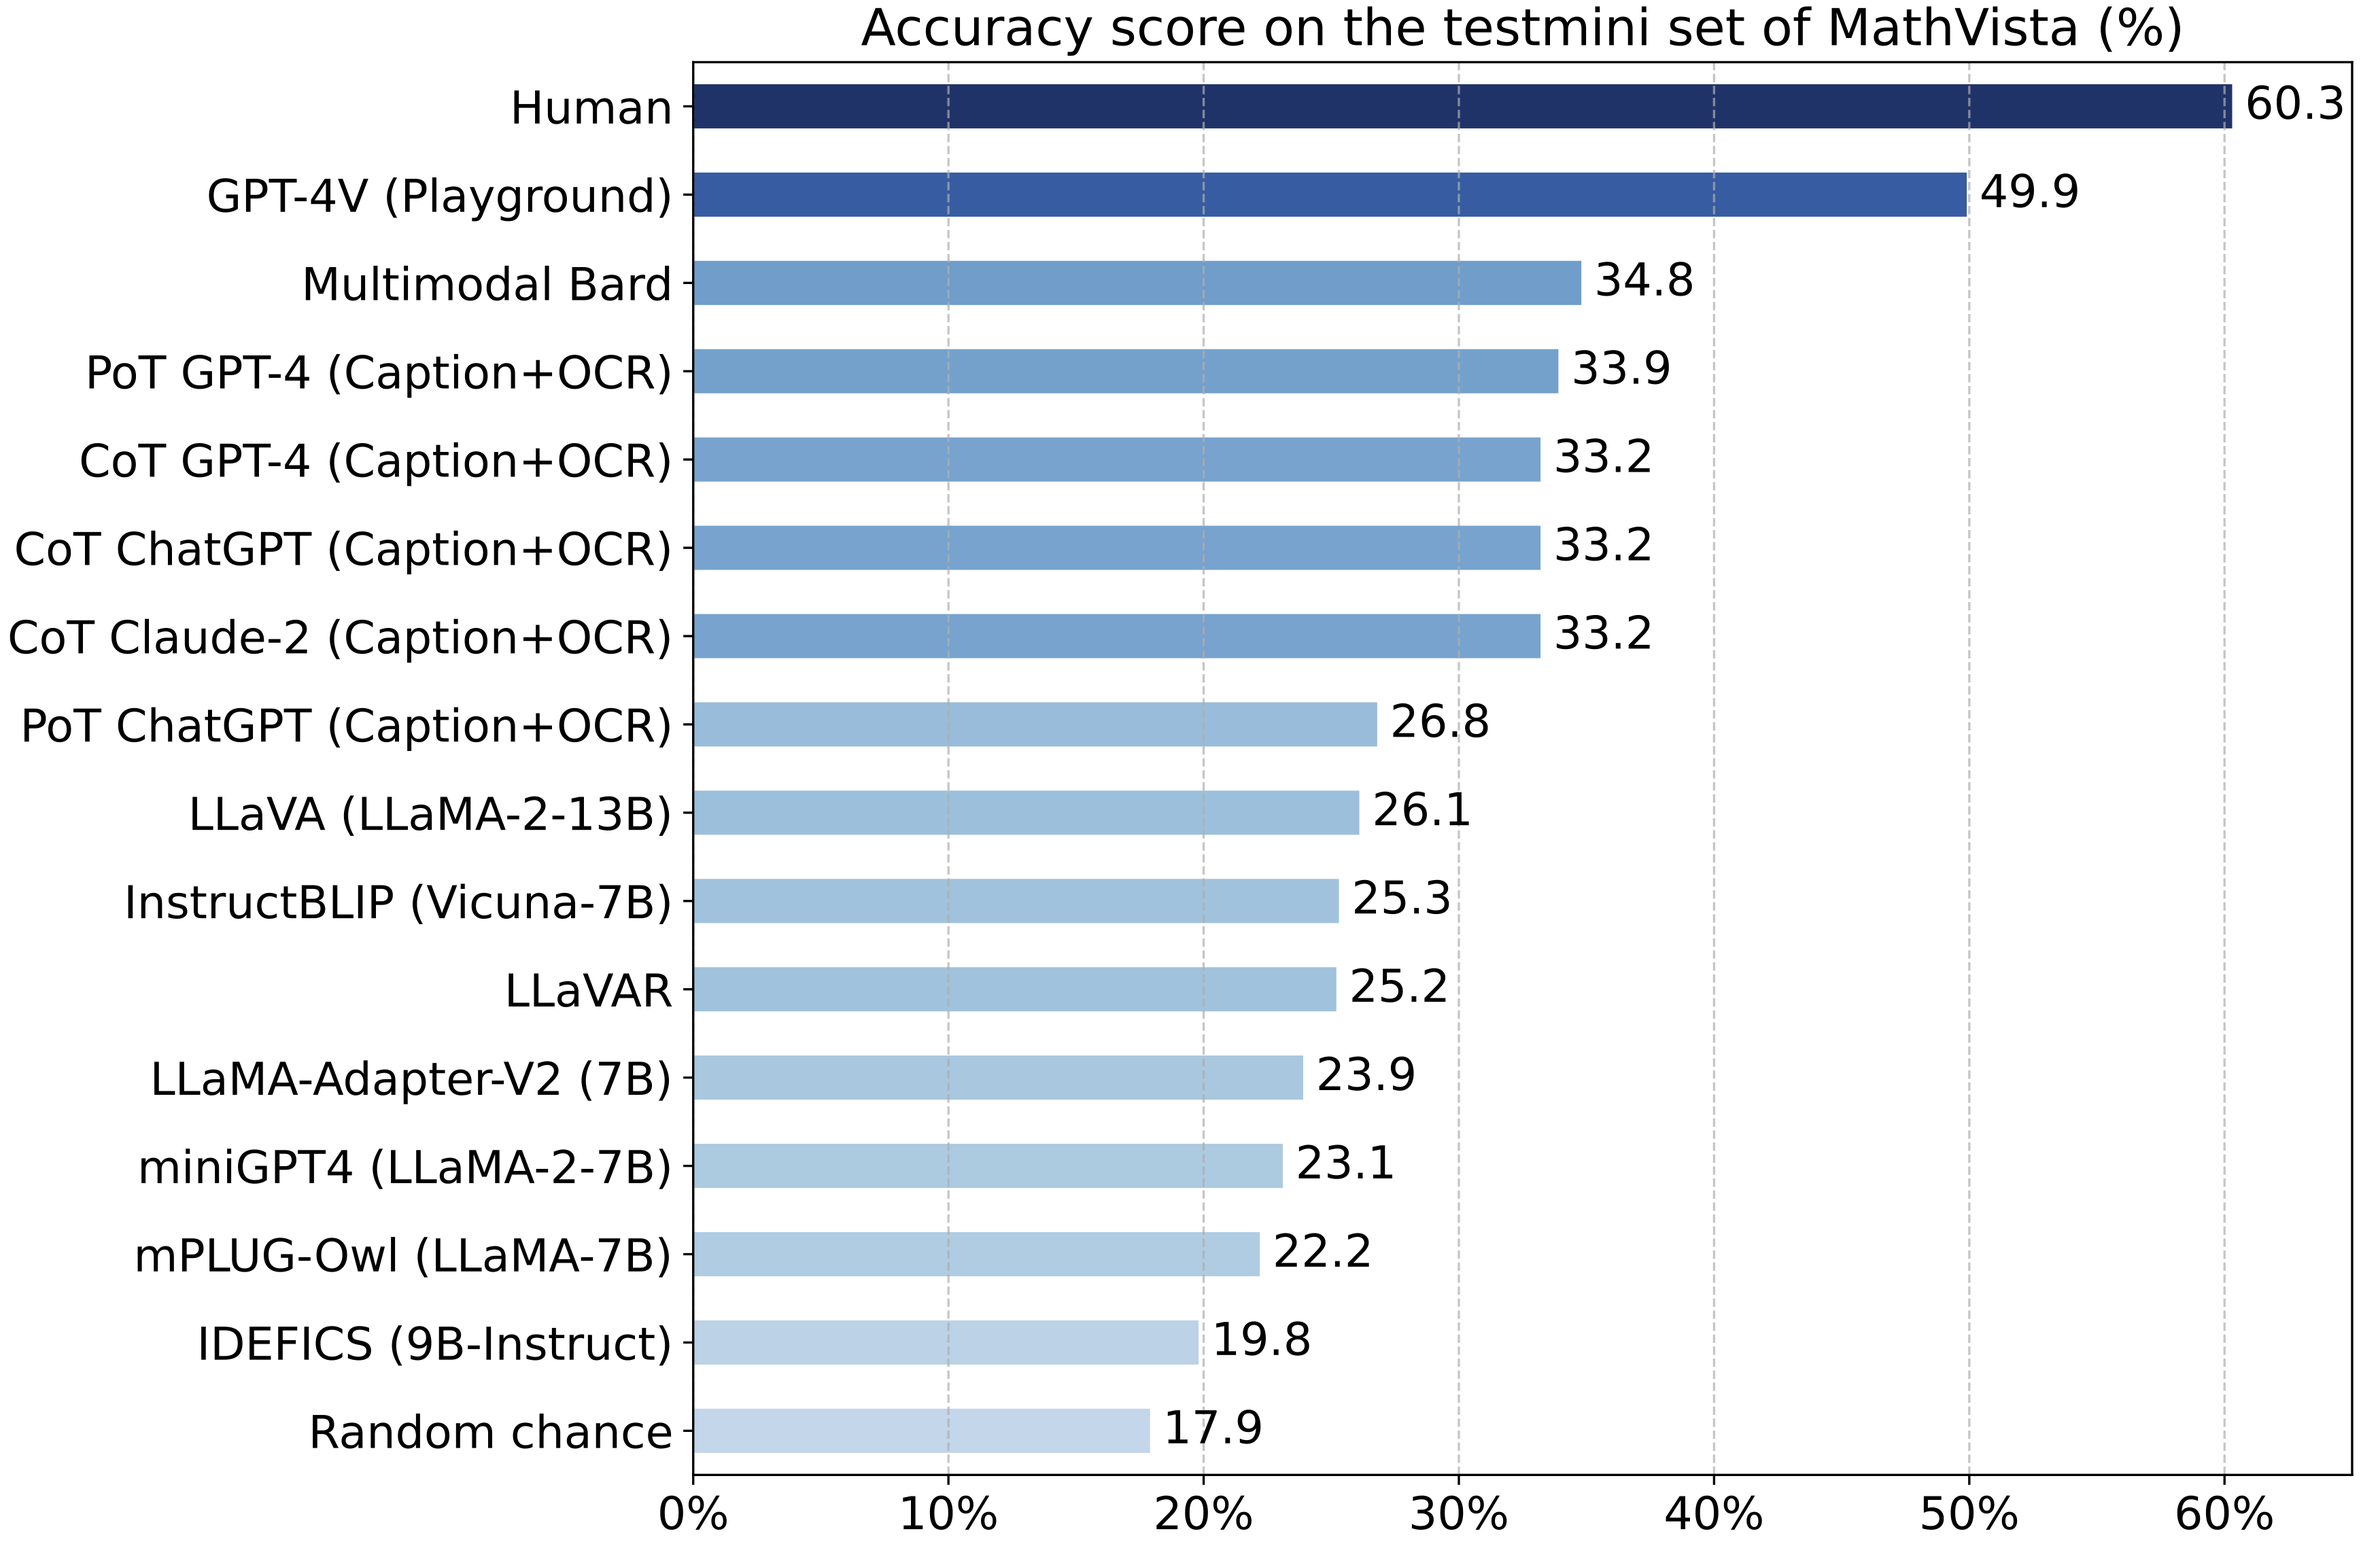
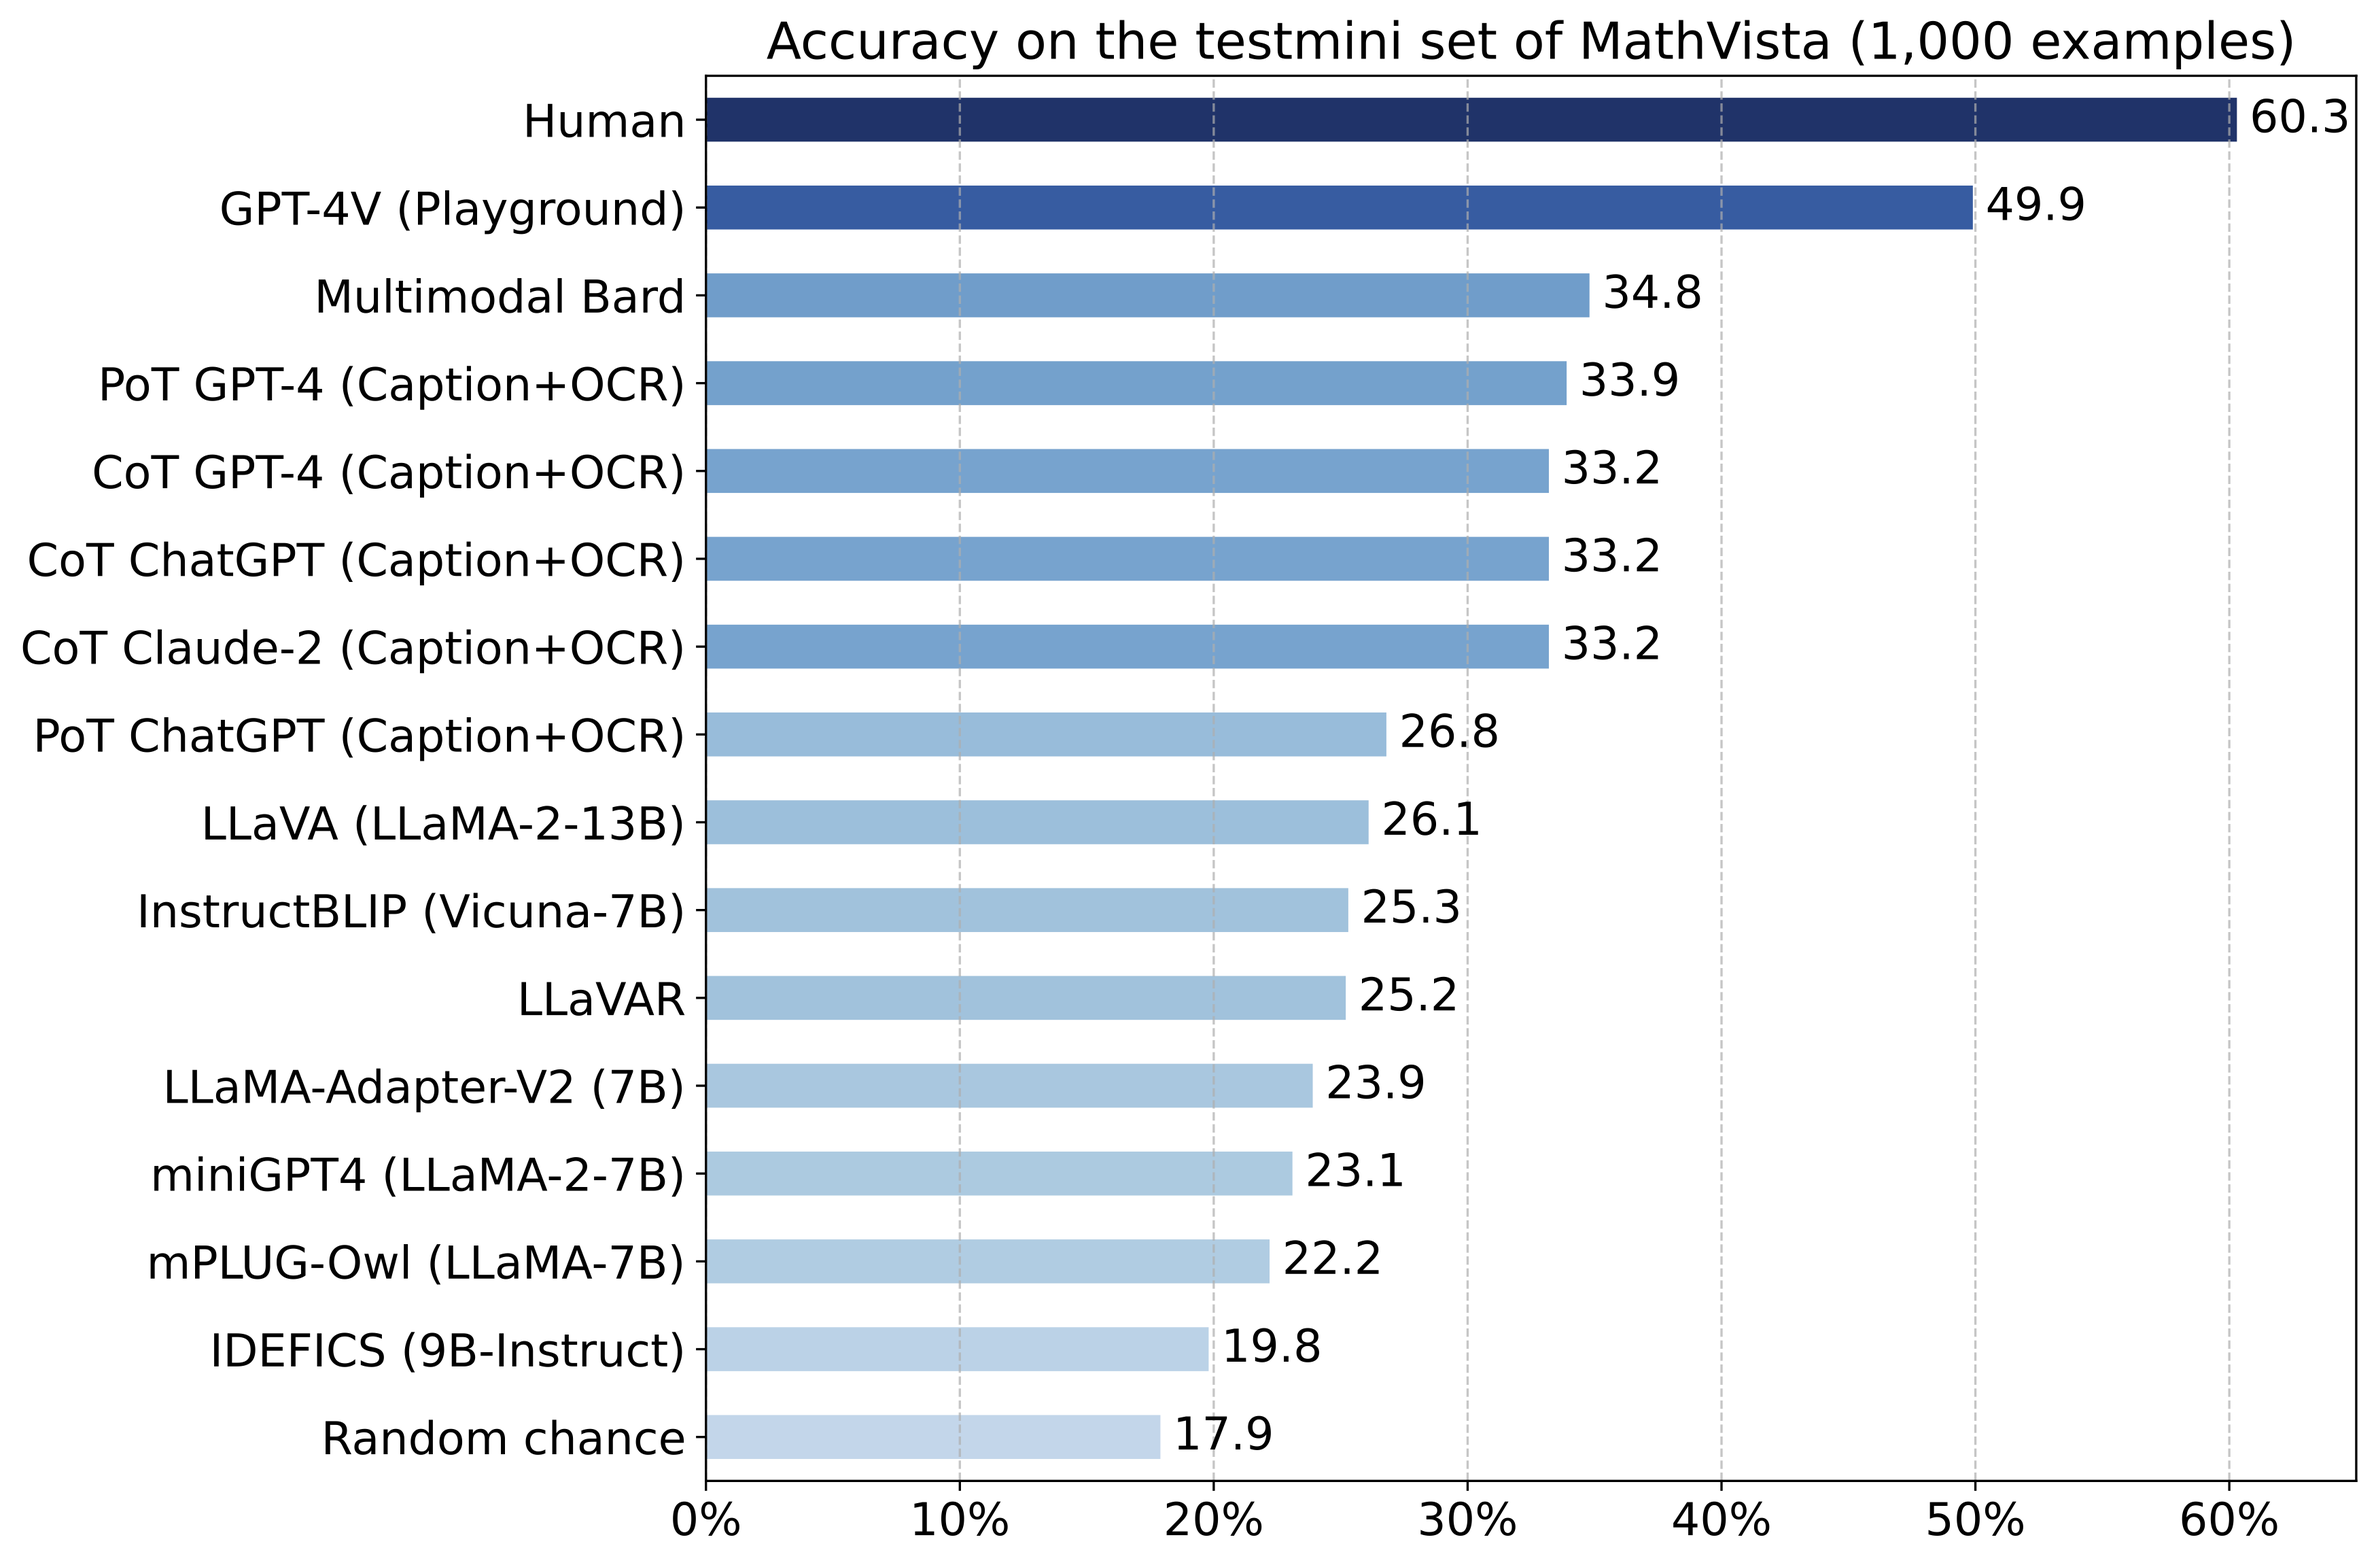
update the introduction

diff --git a/README.md b/README.md
@@ -16,15 +16,18 @@ For more details, please refer to the project page with dataset exploration and 
 
 :bell: If you have any questions or suggestions, please don't hesitate to let us know. You can comment on the [Twitter](https://twitter.com/lupantech/status/1709757360758288448), or post an issue on this repository.
 
-[[Webpage](https://mathvista.github.io/)] [[Paper](https://arxiv.org/abs/2310.02255)] [[Huggingface Dataset](https://huggingface.co/datasets/AI4Math/MathVista)] [[Leaderboard](https://mathvista.github.io/#leaderboard)] [[Visualization](https://mathvista.github.io/#visualization)] [[Result Explorer](https://mathvista.github.io/#explorer)] [[Twitter](https://twitter.com/lupantech/status/1709757360758288448)]
+[[Webpage](https://mathvista.github.io/)] [[Paper](https://lupantech.github.io/papers/arxiv23_mathvista.pdf)] [[Huggingface Dataset](https://huggingface.co/datasets/AI4Math/MathVista)] [[Leaderboard](https://mathvista.github.io/#leaderboard)] [[Visualization](https://mathvista.github.io/#visualization)] [[Result Explorer](https://mathvista.github.io/#explorer)] [[Twitter](https://twitter.com/lupantech/status/1709757360758288448)]
 
 <p align="center">
-    <img src="assets/mathvista.png" width="15%"> <br>
-  Tentative logo for <b>MathVista</b>.
+    <img src="assets/logo_v1.png" width="40%"> <br>
+  Tentative logo for <b>MathVista</b>. Generated by DALL·E 3 prompted by 
+  <br>"A photo-based logo with a gradient of soft blue and modern typography, accompanied by the title 'MathVista'".
 </p>
+
 
 ## 💥 News 💥
 
+- **[2023.10.25]** 🚀 Dive into our comprehensive **112-page** evaluation of **GPT-4V**, Bard, and other Large Multimodal Models, encompassing both **quantitative** and **qualitative** insights. [Explore the full paper now!](https://lupantech.github.io/papers/arxiv23_mathvista.pdf) 📄✨
 - **[2023.10.16]** 🔍 We are working on a comparative study on the **GPT-4V** model. Stay tuned for the detailed report! 📑.
 - **[2023.10.15]** We finished the manual evaluation of **GPT-4V** with the playground chatbot on the *testmini* set on **MathVista**. 🚀 GPT-4V achieves a substantial gain of **15.1%** ⬆ over Bard, reaching a new record of **49.9%**! 🎉
 - **[2023.10.15]** Our dataset is now accessible at [Huggingface Datasets](https://huggingface.co/datasets/AI4Math/MathVista).
@@ -35,20 +38,20 @@ For more details, please refer to the project page with dataset exploration and 
 
 ## 👀 About MathVista
 
-We present **MathVista**, a benchmark designed to amalgamate challenges from **diverse mathematical and visual tasks**. We first taxonomize the key task types, reasoning skills, and visual contexts from the literature to guide our selection from **28 existing math-focused and visual question answering datasets**. Then, **we construct three new datasets, IQTest, FunctionQA, and PaperQA**, to accommodate for missing types of visual contexts. The problems featured often require deep visual understanding beyond OCR or image captioning, and compositional reasoning with rich domain-specific tools, thus posing a notable challenge to existing models.
+**Large Language Models (LLMs)** and **Large Multimodal Models (LMMs)** exhibit impressive problem-solving skills in many tasks and domains, but their ability in mathematical reasoning in visual contexts has not been systematically studied. To bridge this gap, we present **MathVista**, a benchmark designed to combine challenges from diverse mathematical and visual tasks. It consists of **6,141 examples**, derived from **28 existing multimodal datasets** involving mathematics and **3 newly created datasets** (i.e., **IQTest, FunctionQA, and PaperQA**). Completing these tasks requires fine-grained, deep visual understanding and compositional reasoning, which all state-of-the-art foundation models find challenging.
 
 <p align="center">
     <img src="assets/data-composition.png" width="40%"> <br>
   Source dataset distribution of <b>MathVista</b>.
 </p>
 
-We conduct **a comprehensive evaluation of 12 prominent open-source and proprietary foundation models** (LLMs, LLMs augmented with tools, and LMMs. The top-performing model, Multimodal Bard, achieves only **58%** of human performance (34.8% vs 60.3%), indicating ample room for further improvement. The performance of **GPT-4V** is astounding: it achieves a 15.1% improvement over Bard! But it still lags behind humans by 10.4%.
+With **MathVista**, we have conducted **a comprehensive, quantitative evaluation of 12 prominent foundation models**. The best-performing **GPT-4V** model achieves an overall accuracy of **49.9%**, substantially outperforming Bard, the second-best performer, by **15.1%**. Our in-depth analysis reveals that the superiority of **GPT-4V** is mainly attributed to its enhanced visual perception and mathematical reasoning. However, **GPT-4V** still falls short of human performance by **10.4%**, as it often struggles to understand complex figures and perform rigorous reasoning. This significant gap underscores the critical role that **MathVista** will play in the development of general-purpose AI agents capable of tackling mathematically intensive and visually rich real-world tasks. 
 
 <p align="center">
     <img src="assets/score_leaderboard_gpt4v.png" width="70%"> <br>
   Accuracy scores the testmini set (1,000 examples) of <b>MathVista</b>.
 </p>
-Given these significant gaps, **MathVista** fuels future research in the development of general-purpose AI agents capable of tackling mathematically intensive and visually rich real-world tasks. Preliminary tests show that **MathVista** also presents challenges to GPT-4V, underscoring the benchmark's importance.
+We further explore the new ability of **self-verification**, the use of **self-consistency**, and the **goal-directed multi-turn human-AI dialogues**, highlighting the promising potential of GPT-4V for future research.
 
 <p align="center">
     <img src="assets/tease_scores_gpt4v.png" width="80%"> <br>
